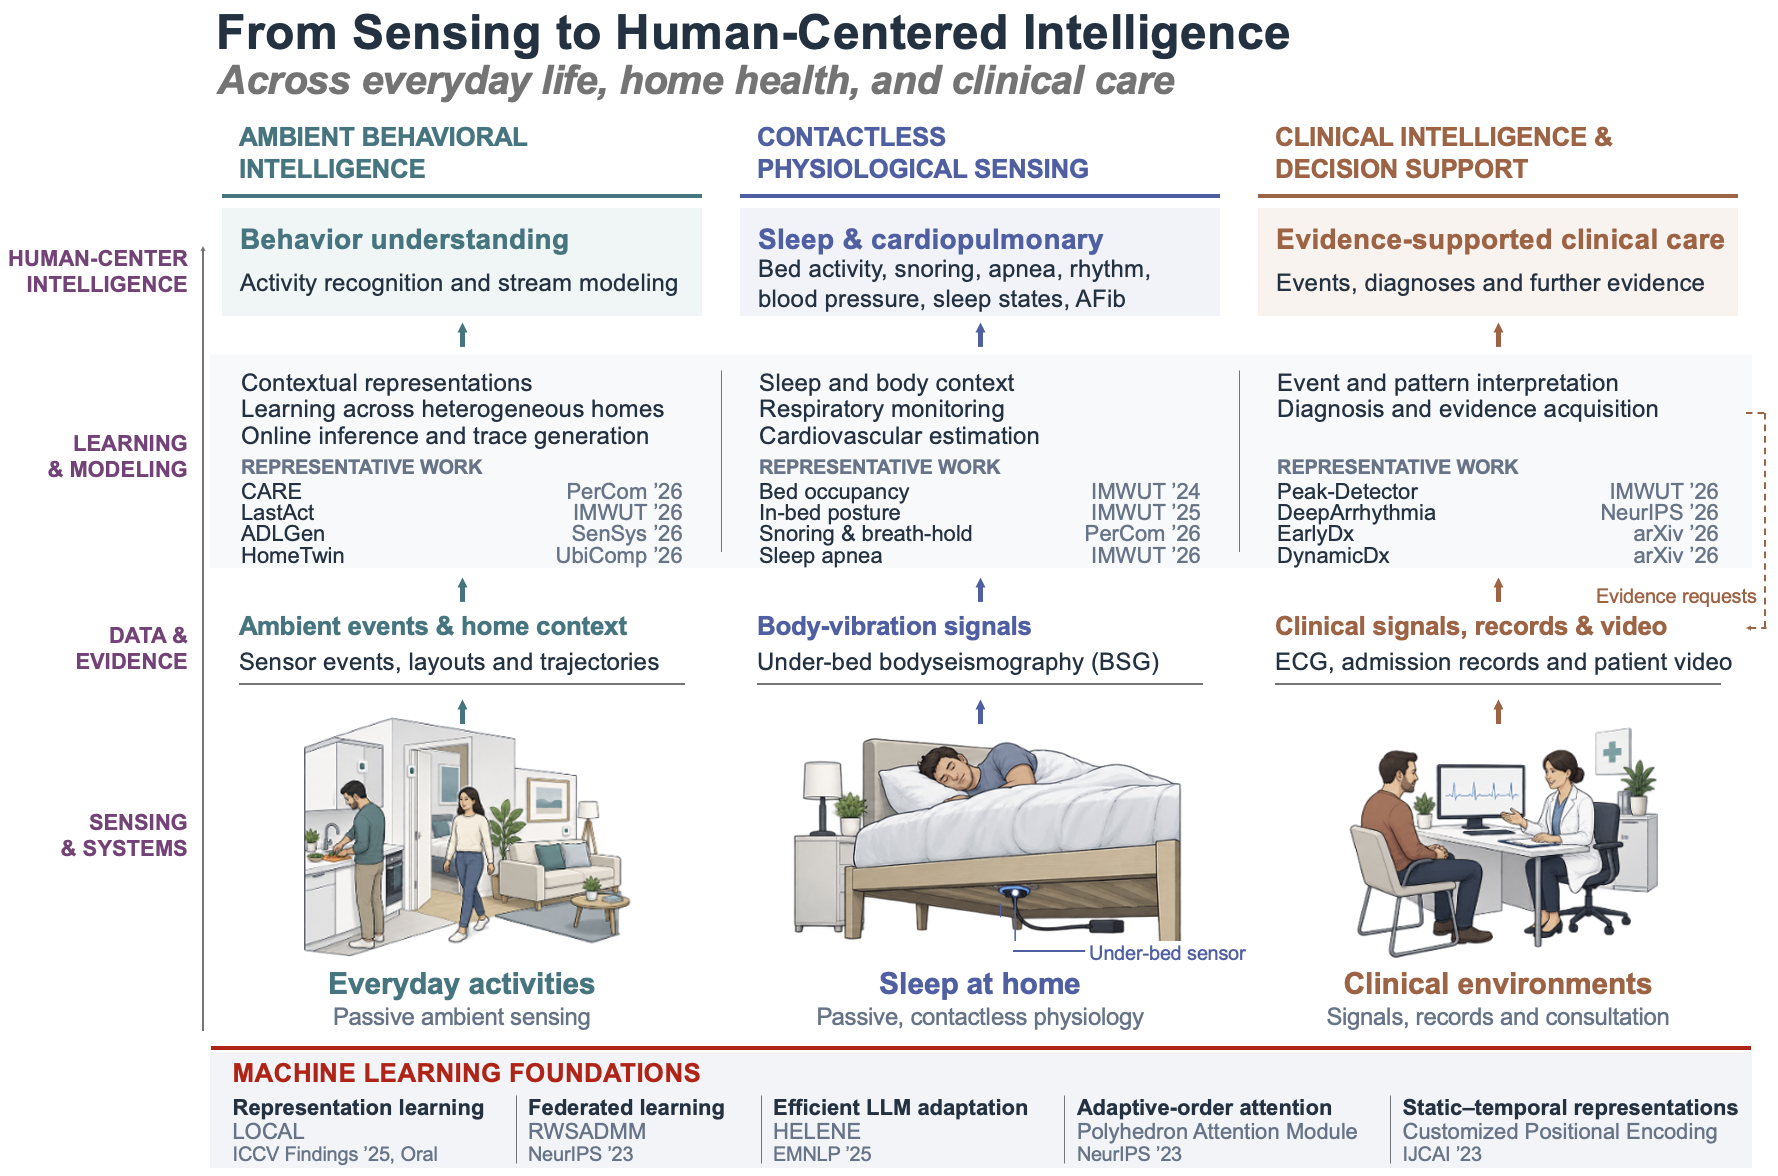
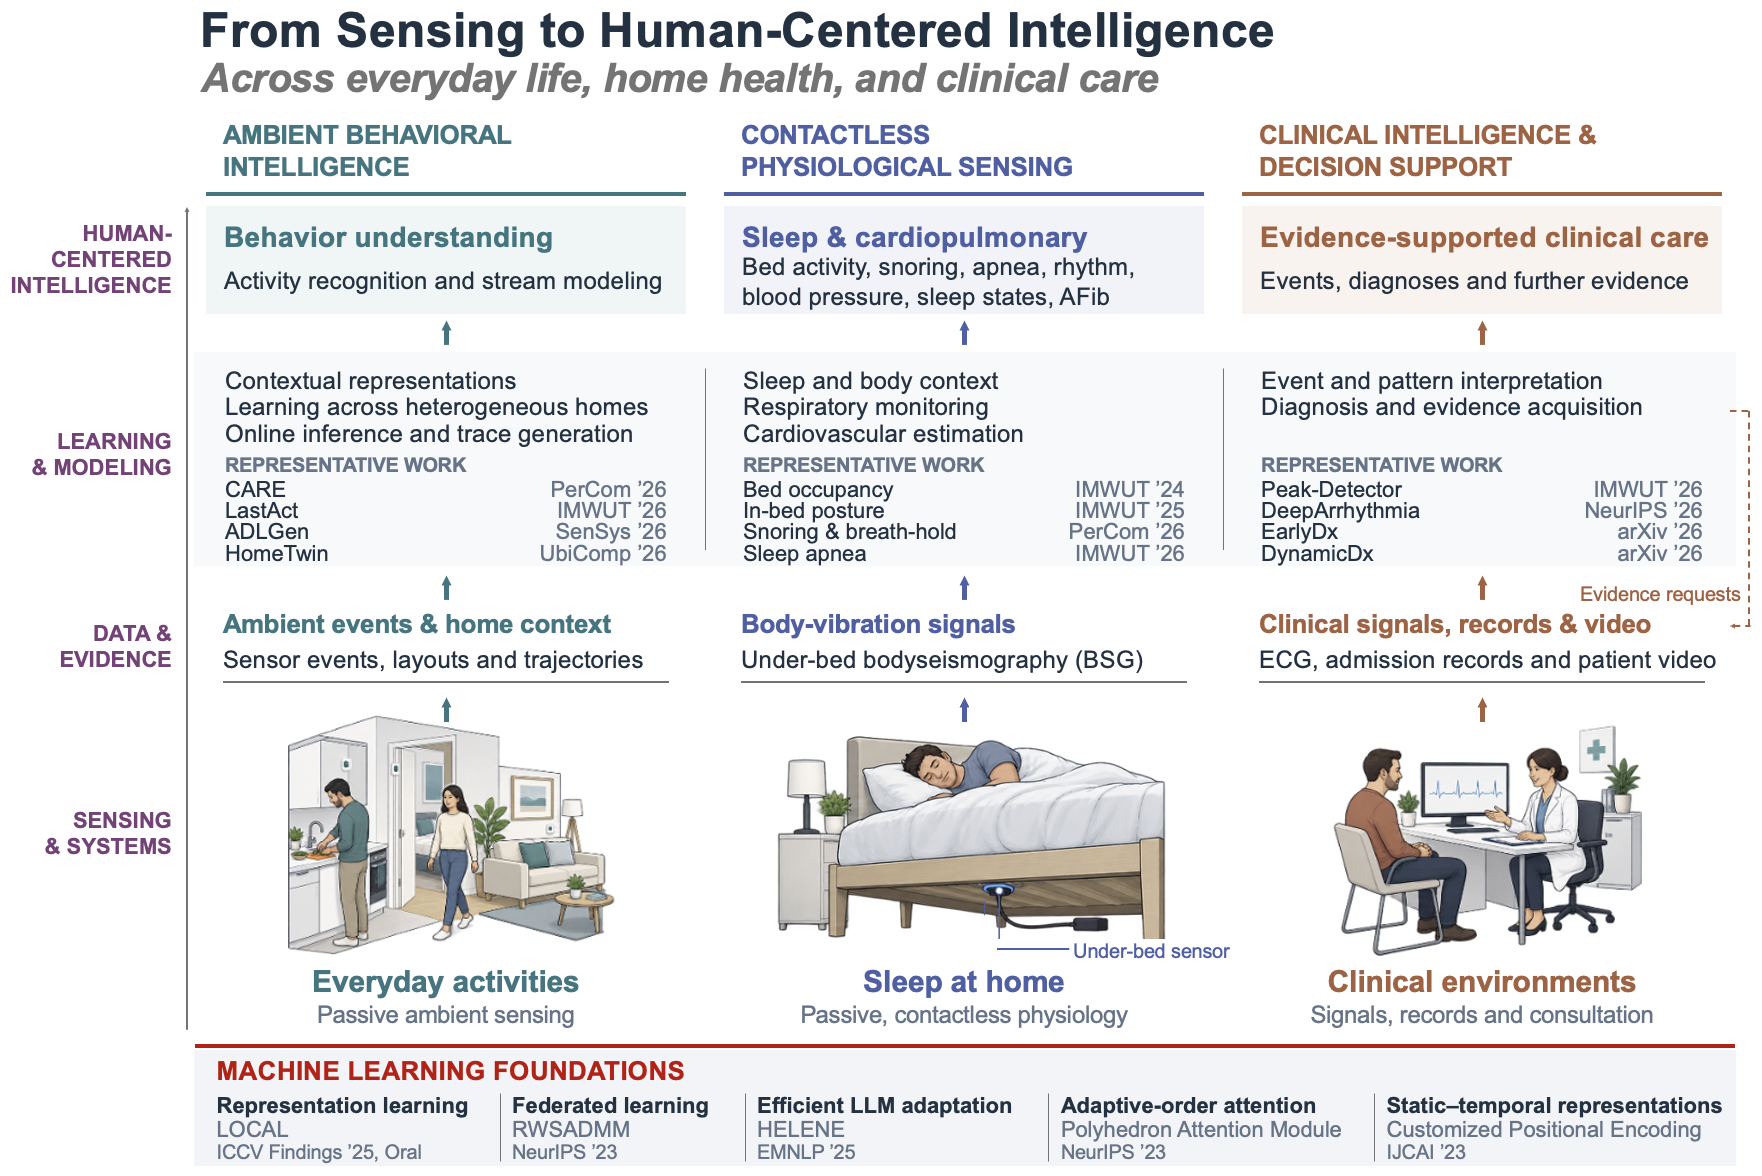
update

diff --git a/_news/2026-news18.md b/_news/2026-news18.md
@@ -1,0 +1,39 @@
+---
+title: >-
+    <span class="badge badge-pill badge-info">Research</span>
+    Please check out our latest research overview below. We warmly welcome new collaborators—please feel free to reach out!
+
+    <div class="mt-2">
+      <a href="/assets/images/research-overview.png"
+         data-toggle="modal"
+         data-target="#research-news-image"
+         aria-label="View enlarged image">
+        <img src="/assets/images/research-overview.png"
+             alt="Research overview"
+             style="width: 220px; max-width: 100%; height: auto;
+                    border-radius: 6px; cursor: zoom-in;">
+      </a>
+    </div>
+
+    <div class="modal fade" id="research-news-image"
+         tabindex="-1" aria-label="Research overview" aria-hidden="true">
+      <div class="modal-dialog modal-dialog-centered modal-xl">
+        <div class="modal-content">
+          <div class="modal-header py-2">
+            <button type="button" class="close"
+                    data-dismiss="modal" aria-label="Close">
+              <span aria-hidden="true">&times;</span>
+            </button>
+          </div>
+          <div class="modal-body p-2">
+            <img src="/assets/images/research-overview.png"
+                 alt="Research overview"
+                 class="img-fluid w-100"
+                 style="max-height: 80vh; object-fit: contain;">
+          </div>
+        </div>
+      </div>
+    </div>
+
+date: 2026-11-18 08:15:00 -0500
+---
